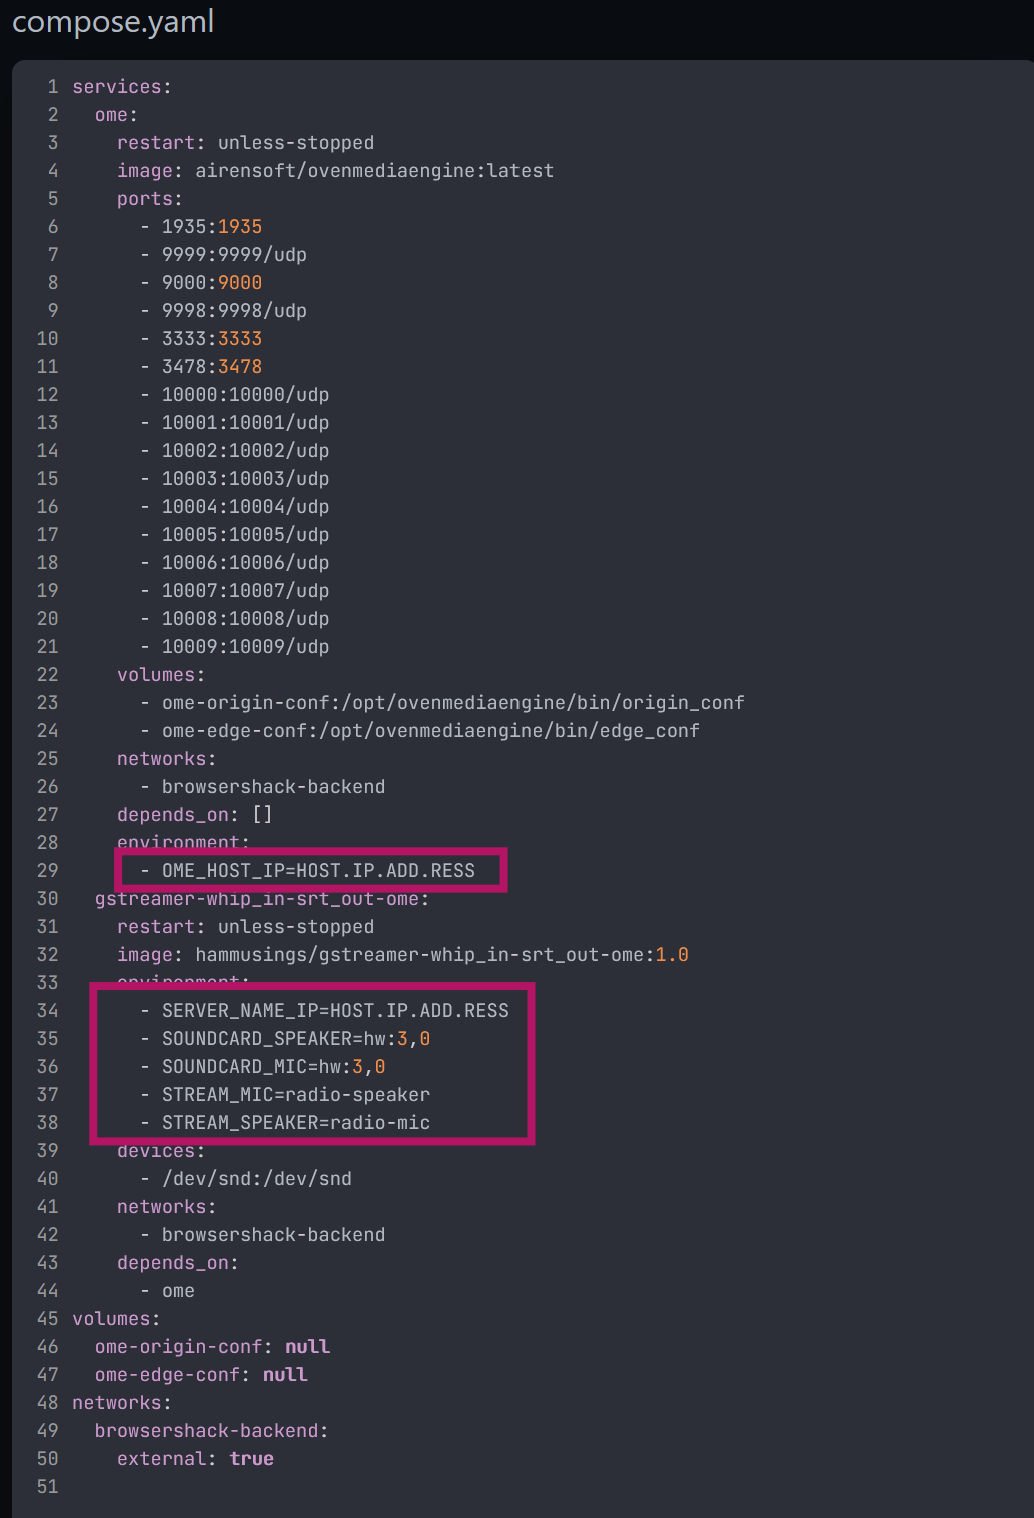
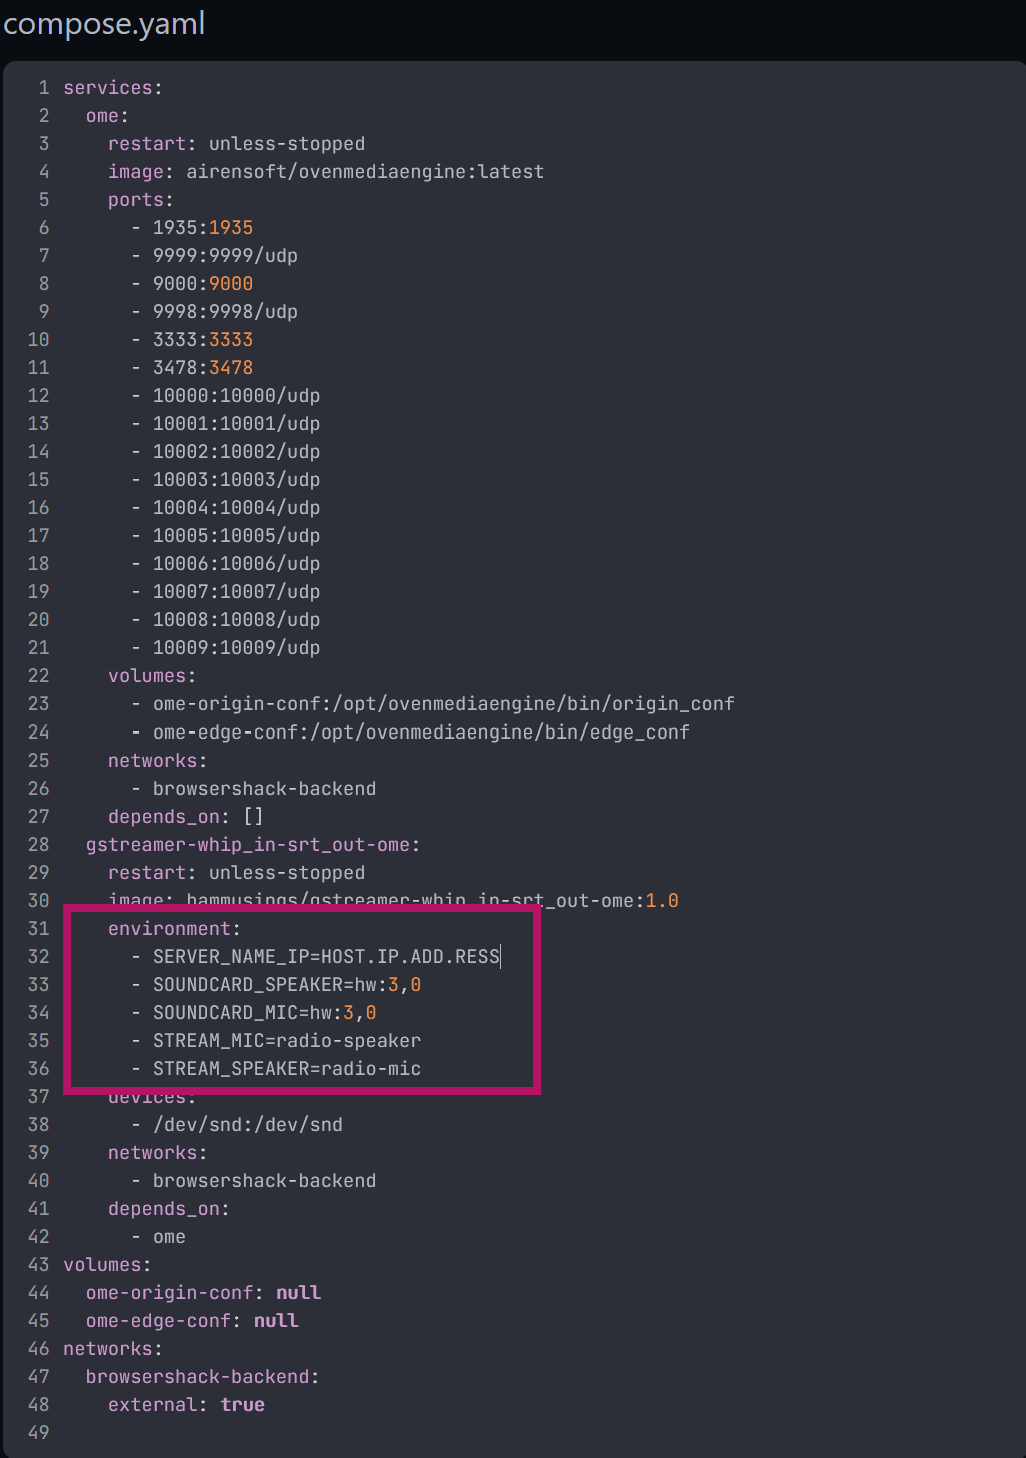
update

Changed region(s): [[0.0, 0.0, 0.7173, 1.0]]

diff --git a/Configuration.md b/Configuration.md
@@ -84,9 +84,8 @@ Once done hit Save in the action menu.
 
 ### voice_stack
 
-In the Maroon Boxes edit the settings to match your radio. 
+In the Maroon Box edit the settings to match your radio. 
 
-* OME_HOST_IP: hostname or ip of your BrowserShack server
 * SERVER_NAME_IP: hostname or ip of your BrowserShack server
 * SOUNDCARD_SPEAKER: hardware id of the speaker port on the radio audio connection (Speaker is from the point of view of the sound card -- so audio OUT but that is microphone IN to the radio)
 * SOUNDCARD_MIC: hardware id of the microphone port on the radio audio connection (Microphone is from the point of view of the sound card -- so audio IN but that is speaker OUT to the radio)
